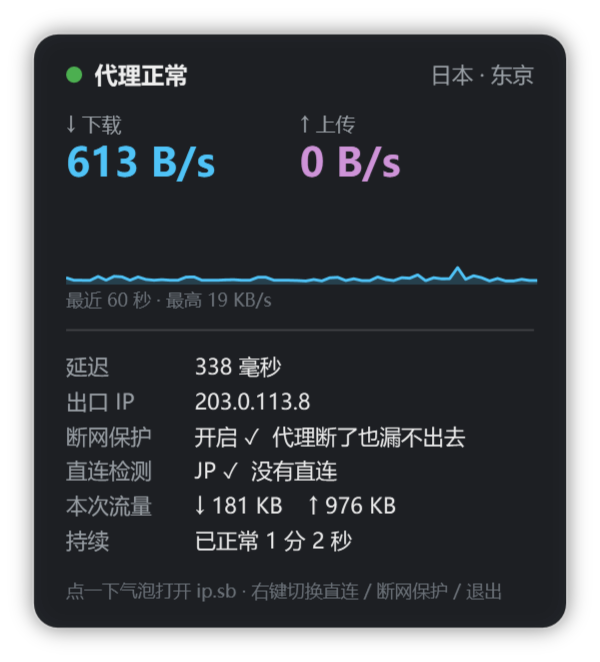
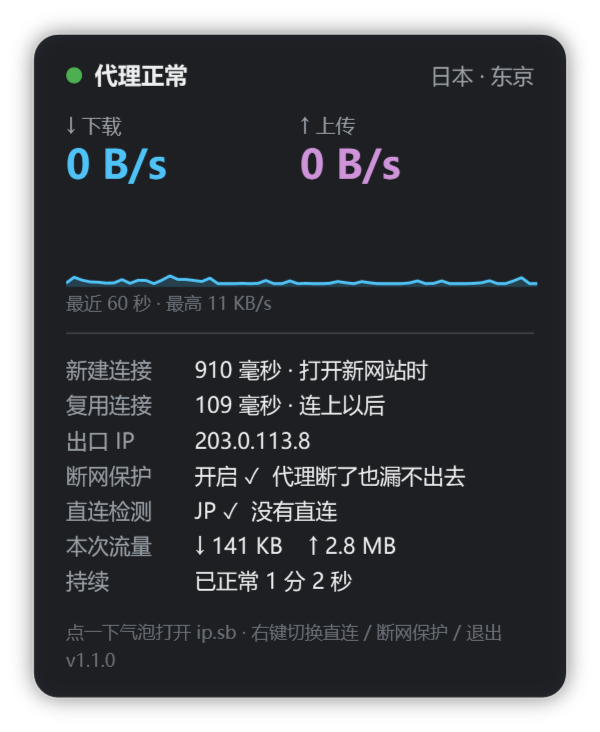
面板同时显示两种延迟（v1.1.0）
- 新建连接：从握手开始访问一次网站的时间（sing-box 测，也用来判断掉线）
- 复用连接：同一条连接上一个来回的时间（跟 v2rayN 列表里的延迟接近），每 10 秒测一次，只显示
- README 加两种延迟的说明，更新面板截图

diff --git a/README.md b/README.md
@@ -15,7 +15,8 @@
 ## 功能
 
 - **开机自启**：登录后自动打开断网保护 → 启动 v2rayN → 等代理端口就绪 → 测几个国外网站，弹通知告诉你通没通
-- **桌面气泡**：外圈颜色一眼看出代理状态，底部显示延迟；鼠标悬停弹出面板（网速、最近 60 秒曲线、出口 IP 和位置、断网保护状态、本次流量）
+- **桌面气泡**：外圈颜色一眼看出代理状态，底部显示延迟；鼠标悬停弹出面板（网速、最近 60 秒曲线、两种延迟、出口 IP 和位置、断网保护状态、本次流量）
+- **两种延迟**：「新建连接」是从握手开始访问一次网站的时间（打开新网站时的感觉，也用来判断掉线）；「复用连接」是连接建好以后一个来回的时间（看视频、聊天时的感觉，跟 v2rayN 列表里的延迟接近）。新建连接要走四五个来回，所以通常是复用连接的好几倍，这是正常的
 - **数据直接读 v2rayN**：延迟优先用 sing-box 自己测的结果（sing-box 没在跑时才自己通过代理测），网速读 xray 的流量统计；端口从 v2rayN 的设置里自动算
 - **掉线提醒**：进程没了、TUN 网卡没了、连续测不通，几秒内就弹通知；断网保护关着的时候掉线，会**响铃并一直停在屏幕上**
 - **断网保护（kill switch）**：Windows 防火墙出站默认拦截，只放行 TUN、局域网和 v2rayN 自己。代理一断，其他程序都连不出去
@@ -26,7 +27,7 @@
 
 | 外圈 | 底部 | 意思 |
 |---|---|---|
-| 🟢 绿 | 延迟数字 | 正常（< 500 毫秒） |
+| 🟢 绿 | 延迟数字（新建连接） | 正常（< 500 毫秒） |
 | 🟡 黄 | 延迟数字 / `?` | 有点慢（500~1500 毫秒）/ 刚才测失败了一次 |
 | 🔴 红 | 延迟数字 | 很慢（> 1500 毫秒） |
 | 🔴 红 + 呼吸闪烁 | `×` | 掉线了 |
